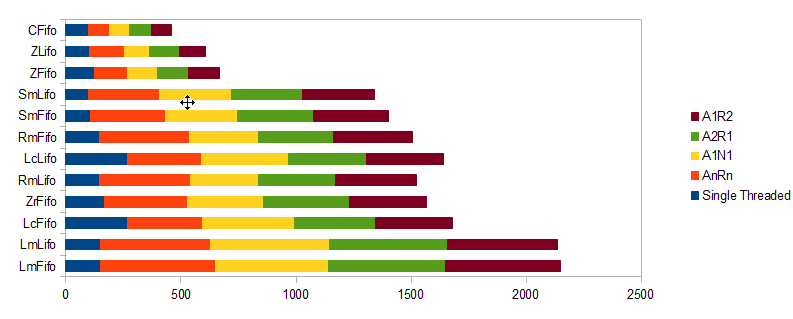
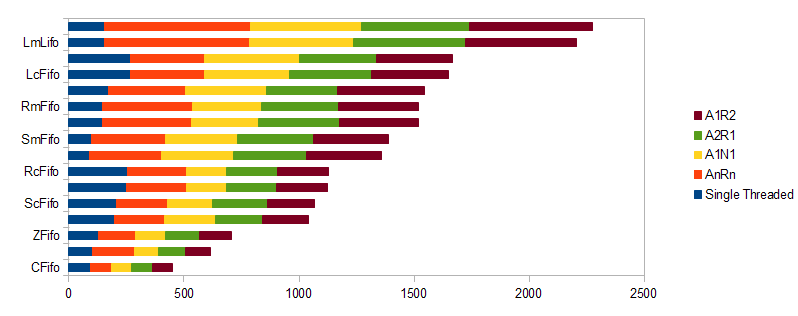
update

diff --git a/util_test.go b/util_test.go
@@ -75,57 +75,47 @@ func lifoTest(t *testing.T, q Queue) {
 	done <- 1
 }
 
-func queuePTest(t *testing.T, q Queue) {
+func runParallelTest(t *testing.T, test func(int)) {
 	done := timeout()
-
-	testRoutines := runtime.NumCPU()
-	N := testItemCount / testRoutines
+	cpus := 4
+	N := testItemCount / cpus
 	wg := &sync.WaitGroup{}
-
-	for k := 0; k < testRoutines; k += 1 {
+	for i := 0; i < cpus; i += 1 {
 		wg.Add(1)
-		go func() {
-			for i := 0; i < N; i += 1 {
-				q.Enqueue(i)
-			}
-
-			for i := 0; i < N; i += 1 {
-				_, ok := q.Dequeue()
-				if !ok {
-					t.Fatalf("Was unable to get value")
-				}
-			}
+		go func(){
+			test(N)
 			wg.Done()
 		}()
 	}
-
 	wg.Wait()
 	done <- 1
 }
 
-func queueP2Test(t *testing.T, q Queue) {
-	done := timeout()
+func queuePTest(t *testing.T, q Queue) {
+	runParallelTest(t, func(N int){
+		for i := 0; i < N; i += 1 {
+			q.Enqueue(i)
+		}
 
-	testRoutines := runtime.NumCPU()
-	N := testItemCount / testRoutines
-	wg := &sync.WaitGroup{}
-
-	for k := 0; k < testRoutines; k += 1 {
-		wg.Add(1)
-		go func() {
-			for i := 0; i < N; i += 1 {
-				q.Enqueue(i)
-				_, ok := q.Dequeue()
-				if !ok {
-					t.Fatalf("Was unable to get value")
-				}
+		for i := 0; i < N; i += 1 {
+			_, ok := q.Dequeue()
+			if !ok {
+				t.Fatalf("Was unable to get value")
 			}
-			wg.Done()
-		}()
-	}
+		}
+	})
+}
 
-	wg.Wait()
-	done <- 1
+func queueP2Test(t *testing.T, q Queue) {
+	runParallelTest(t, func(N int){
+		for i := 0; i < N; i += 1 {
+			q.Enqueue(i)
+			_, ok := q.Dequeue()
+			if !ok {
+				t.Fatalf("Was unable to get value")
+			}
+		}
+	})
 }
 
 func queueBenchSing(b *testing.B, q Queue) {
@@ -137,82 +127,64 @@ func queueBenchSing(b *testing.B, q Queue) {
 	}
 }
 
-func queueBenchANRN(b *testing.B, q Queue) {
-	testRoutines := runtime.GOMAXPROCS(-1)
-	N := b.N / testRoutines
+func runParallelBench(b *testing.B, test func(int)) {
+	cpus := runtime.GOMAXPROCS(-1)
+	N := b.N / cpus
 	wg := &sync.WaitGroup{}
-	for k := 0; k < testRoutines; k += 1 {
+	for i := 0; i < cpus; i += 1 {
 		wg.Add(1)
-		go func() {
-			for i := 0; i < N; i += 1 {
-				q.Enqueue(i)
-			}
-			for i := 0; i < N; i += 1 {
-				q.Dequeue()
-			}
+		go func(){
+			test(N)
 			wg.Done()
 		}()
 	}
 	wg.Wait()
+}
+
+func queueBenchANRN(b *testing.B, q Queue) {
+	runParallelBench(b, func(N int){
+		for i := 0; i < N; i += 1 {
+			q.Enqueue(i)
+		}
+		for i := 0; i < N; i += 1 {
+			q.Dequeue()
+		}
+	})
 }
 
 func queueBenchA1R1(b *testing.B, q Queue) {
-	testRoutines := runtime.GOMAXPROCS(-1)
-	N := b.N / testRoutines
-	wg := &sync.WaitGroup{}
-	for k := 0; k < testRoutines; k += 1 {
-		wg.Add(1)
-		go func() {
-			for i := 0; i < N; i += 1 {
-				q.Enqueue(i)
-				q.Dequeue()
-			}
-			wg.Done()
-		}()
-	}
-	wg.Wait()
+	runParallelBench(b, func(N int){
+		for i := 0; i < N; i += 1 {
+			q.Enqueue(i)
+			q.Dequeue()
+		}
+	})
 }
 
 func queueBenchA2R1(b *testing.B, q Queue) {
-	testRoutines := runtime.GOMAXPROCS(-1)
-	N := b.N / testRoutines
-	N = N / 2
-	wg := &sync.WaitGroup{}
-	for k := 0; k < testRoutines; k += 1 {
-		wg.Add(1)
-		go func() {
-			for i := 0; i < N; i += 1 {
-				q.Enqueue(i)
-				q.Enqueue(i)
-				q.Dequeue()
-			}
-			for i := 0; i < N; i += 1 {
-				q.Dequeue()
-			}
-			wg.Done()
-		}()
-	}
-	wg.Wait()
+	runParallelBench(b, func(N int){
+		N2 := N / 2
+		for i := 0; i < N2; i += 1 {
+			q.Enqueue(i)
+			q.Enqueue(i)
+			q.Dequeue()
+		}
+		for i := 0; i < N2; i += 1 {
+			q.Dequeue()
+		}
+	})
 }
 
 func queueBenchA1R2(b *testing.B, q Queue) {
-	testRoutines := runtime.GOMAXPROCS(-1)
-	N := b.N / testRoutines
-	N = N / 2
-	wg := &sync.WaitGroup{}
-	for k := 0; k < testRoutines; k += 1 {
-		wg.Add(1)
-		go func() {
-			for i := 0; i < N; i += 1 {
-				q.Enqueue(i)
-			}
-			for i := 0; i < N; i += 1 {
-				q.Enqueue(i)
-				q.Dequeue()
-				q.Dequeue()
-			}
-			wg.Done()
-		}()
-	}
-	wg.Wait()
+	runParallelBench(b, func(N int){
+		N2 := N / 2
+		for i := 0; i < N2; i += 1 {
+			q.Enqueue(i)
+		}
+		for i := 0; i < N2; i += 1 {
+			q.Enqueue(i)
+			q.Dequeue()
+			q.Dequeue()
+		}
+	})	
 }

diff --git a/all_test.go b/all_test.go
@@ -84,7 +84,7 @@ func TestZcFifo(t *testing.T) {
 	queuePTest(t, NewZFifoFreechan())
 	queueP2Test(t, NewZFifoFreechan())
 }
-
+/*
 func BenchmarkZcFifoSing(b *testing.B) {
 	queueBenchSing(b, NewZFifoFreechan())
 }
@@ -102,7 +102,7 @@ func BenchmarkZcFifoA2R1(b *testing.B) {
 }
 func BenchmarkZcFifoA1R2(b *testing.B) {
 	queueBenchA1R2(b, NewZFifoFreechan())
-}
+}*/
 
 func TestZrFifo(t *testing.T) {
 	fifoTest(t, NewZFifoFreering())

diff --git a/README.md b/README.md
@@ -1,7 +1,7 @@
 Go Queues Test
 ==
 
-Performance test of different queue implementations
+Performance test of different concurrent queue implementations
 
 --
 
@@ -28,18 +28,22 @@ Available Structure:
 Current performance:
 
                 1.      2.      3.      4.      5.
-    CFifo       97      93      88      92      89
-    LcLifo      266     325     377     339     334
-    LcFifo      267     327     401     350     335
-    LmLifo      152     475     517     516     477
-    LmFifo      151     498     492     509     499
-    ZLifo       102     154     106     132     112
-    ZFifo       126     144     128     137     134
-    ZrFifo      169     358     332     375     334
-    RmLifo      145     397     293     336     353
-    RmFifo      146     392     297     329     343
-    SmLifo      99      307     313     309     311
-    SmFifo      107     327     312     331     324
+    CFifo       92      92      87      88      88
+    ZLifo       104     179     105     119     110
+    ZFifo       129     160     132     147     137
+    ScLifo      198     216     225     202     201
+    ScFifo      206     223     195     238     207
+    ZrFifo      171     334     353     310     377
+    SmLifo      91      311     315     317     325
+    SmFifo      99      322     313     330     325
+    RcLifo      250     263     171     220     220
+    RcFifo      253     260     174     221     221
+    RmLifo      148     386     291     349     345
+    RmFifo      147     388     303     334     348
+    LcLifo      267     321     412     338     330
+    LcFifo      267     323     368     355     336
+    LmLifo      153     634     451     486     483
+    LmFifo      153     636     481     469     537
 
 Tests:
 
@@ -49,4 +53,6 @@ Tests:
 4. N/2 times (Add 2, Remove 1), Remove N/2
 5. Add N/2, N/2 times (Add 1, Remove 2)
 
-ZcFifo was excluded due to crashes and infinite loops.
+ZcFifo was excluded due to crash.
+
+General recommendation use chan if it suits otherwise use slice + "chan as a lock".
